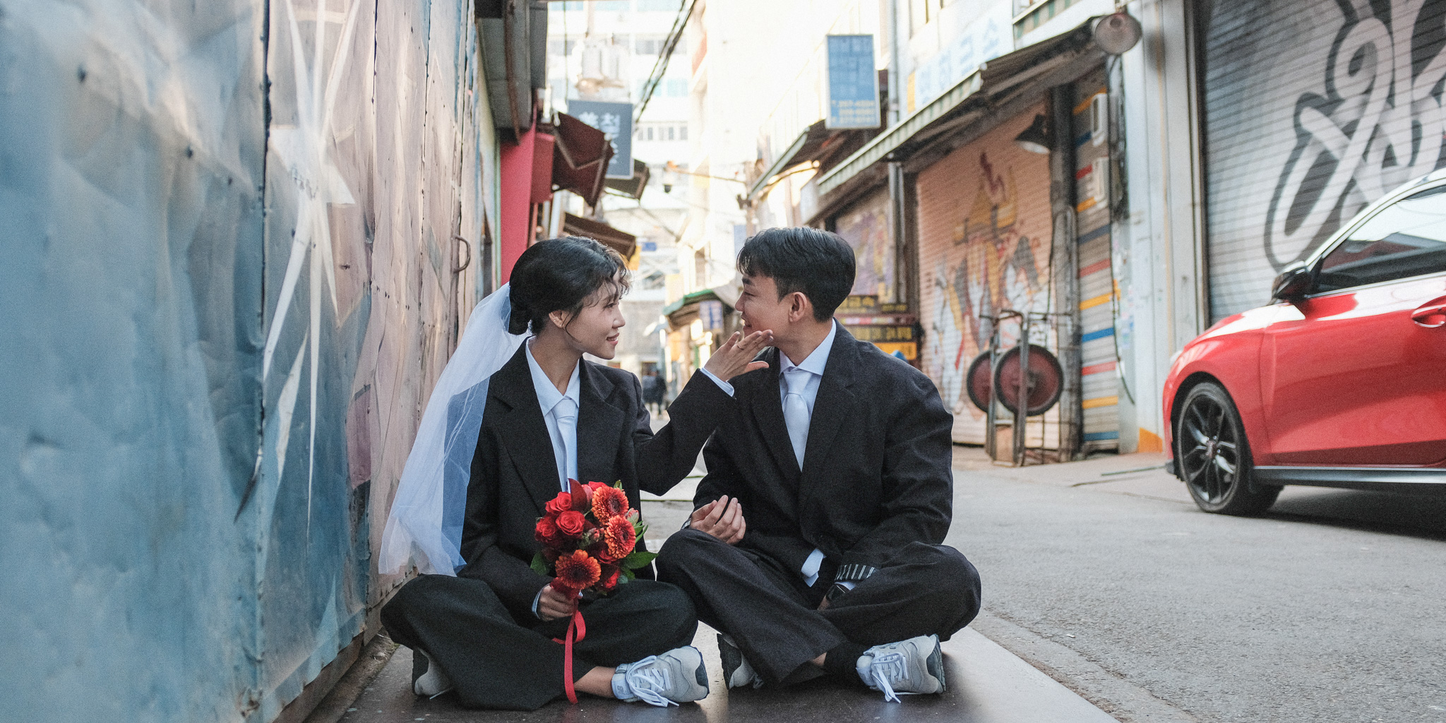
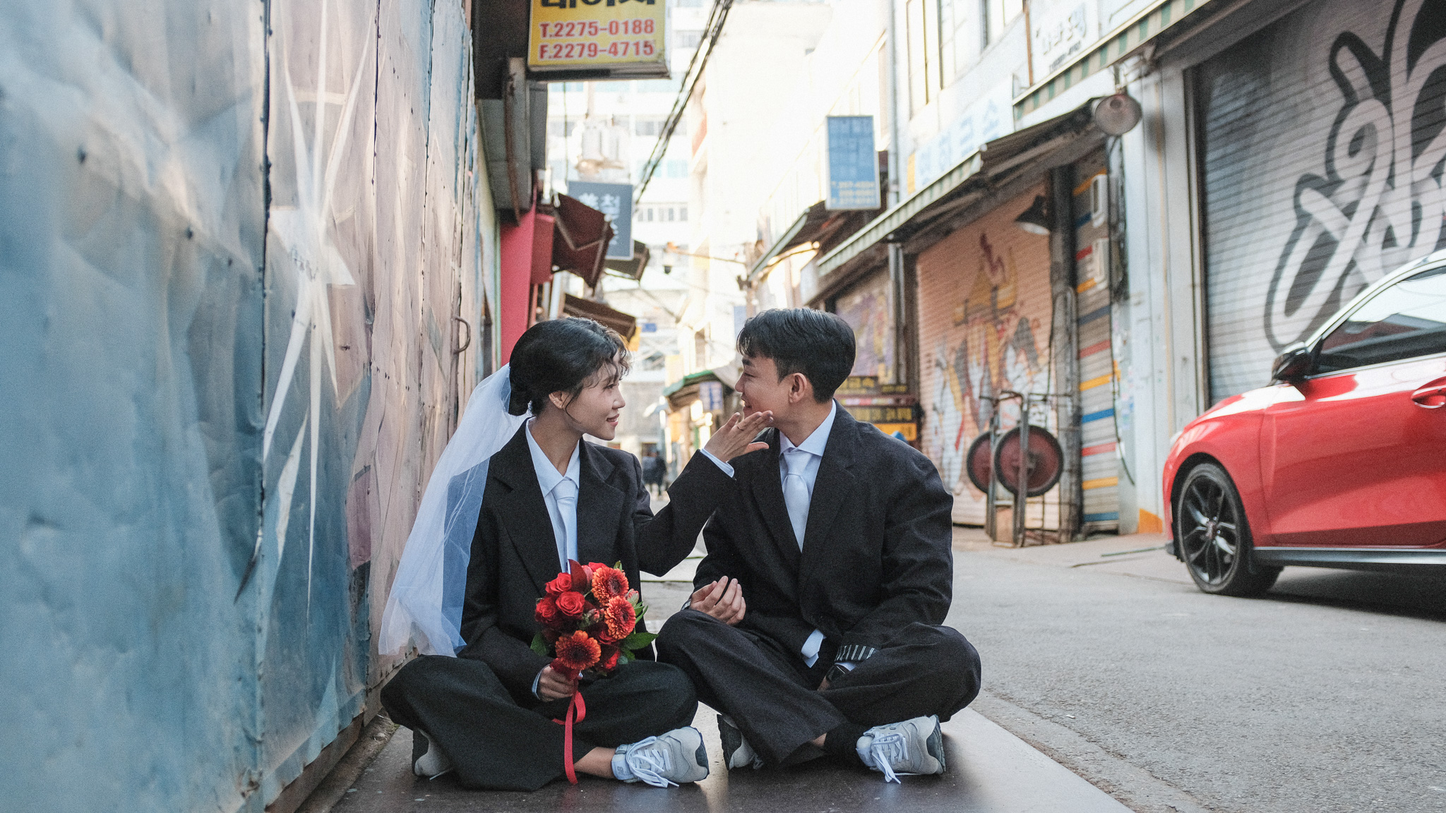
문구 변경 & 피로연 정보 & 사진 변경 & 계좌번호 업데이트

diff --git a/index.html b/index.html
@@ -32,16 +32,11 @@
             <div class="container d-flex align-items-center flex-column">
                 <!-- Masthead Subheading-->
                 <h2 class="page-section-heading text-center text-secondary mb-2 tangerine-font">Invitation</h2>
-                <p class="text-opacity-75 maru-font mb-2">풀들이 향기를 가득 머금은 계절,</p>
-                <p class="text-opacity-75 maru-font mb-2">사랑으로 하나 되어</p>
-                <p class="text-opacity-75 maru-font mb-2">한 길을 걸어가고자 합니다.</p>
-                <p class="text-opacity-75 maru-font py-2"></p>
-                <p class="text-opacity-75 maru-font mb-2">그 시작의 첫걸음에 함께 하시어</p>
-                <p class="text-opacity-75 maru-font mb-2">축복으로 가득 채워주십시오.</p>
-                <p class="text-opacity-75 maru-font py-2"></p>
-                <p class="text-opacity-75 maru-font mb-2">더 없는 기쁨으로</p>
-                <p class="text-opacity-75 maru-font mb-2">깊이 간직하며 살겠습니다.</p>
-                <p class="text-opacity-75 maru-font py-2"></p>
+                <p class="text-opacity-75 maru-font mb-2">곁에 있을 때 가장 나다운 모습이 되게 하는 사람</p>
+                <p class="text-opacity-75 maru-font mb-2">꿈을 펼칠 수 있도록 서로에게 날개가 되어줄 사람</p>
+                <p class="text-opacity-75 maru-font mb-2">그 사람과 삶의 여행을 함께 떠나려 합니다.</p>
+                <p class="text-opacity-75 maru-font mb-2">저희 여행의 출발점에 여러분을 초대하오니</p>
+                <p class="text-opacity-75 maru-font mb-5">오셔서 많이 축복해 주시면 큰 기쁨이겠습니다.</p>
                 <span class="divider-line mb-5"></span>
                 <p class="text-opacity-75 maru-font ps-4 mb-2">김기창, 이은하의 장남 김건호</p>
                 <p class="text-opacity-75 maru-font mb-2">(故)이철수, 김명숙의 장녀 이주경</p>
@@ -307,12 +302,19 @@
                 </script>
                     <!-- Masthead Subheading-->
                 <p class="text-opacity-50 font-0 text-bold text-black maru-font mb-5">지도를 터치(클릭)하시면 네이버 지도가 열립니다</p>
-                <p class="text-bold text-black maru-font mb-2">지하철</p>
+                <p class="text-bold text-black maru-font mb-2">&lt; 지하철 &gt;</p>
                 <p class="text-opacity-75 maru-font mb-5">금천구청역 1번출구에서 도보 12분</p>
-                <p class="text-bold text-black maru-font mb-2">자가용</p>
+                <p class="text-bold text-black maru-font mb-2">&lt; 자가용 &gt;</p>
                 <p class="text-opacity-75 maru-font mb-2">네비게이션에 "마벨리에 시흥점" 검색</p>
                 <p class="text-opacity-75 maru-font mb-5">(또는 홈플러스 시흥점)</p>
-                <p class="text-opacity-75 maru-font mb-2">식사 3시간, 주차 4시간 제공</p>
+                <p class="text-opacity-75 maru-font mb-5">식사 3시간, 주차 4시간 제공</p>
+                <span class="divider-line mb-5"></span>
+                <p class="text-bold text-black maru-font mb-2">&lt; 피로연 안내 &gt;</p>
+                <p class="text-opacity-50 maru-font mb-2">2024년 4월 13일 오후 1시</p>
+                <p class="text-opacity-50 maru-font mb-2" onclick="window.open('https://map.naver.com/p/entry/place/11582831?c=15.00,0,0,0,dh')">
+                    <a href="javascript:void(0);">설악웨딩타운</a>
+                </p>
+                <p class="text-opacity-50 maru-font mb-2">충남 당진시 남부로 122</p>
             </div>
         </section>
         <!-- Contact Section-->
@@ -328,7 +330,7 @@
                     </div>
                     <div class="info-content">
                         <div class="account-info">
-                            <span id="account-1">신한 123-456-7890</span>
+                            <span id="account-1">카카오뱅크 3333-01-4288030</span>
                             <i class="fas fa-copy copy-icon" data-account-id="account-1" title="복사하기" onclick="copy(this, event)"></i>
                         </div>
                     </div>
@@ -340,7 +342,7 @@
                     </div>
                     <div class="info-content">
                         <div class="account-info">
-                            <span id="account-2">신한 123-456-7891</span>
+                            <span id="account-2">카카오뱅크 3333-05-8779622</span>
                             <i class="fas fa-copy copy-icon" data-account-id="account-2" title="복사하기" onclick="copy(this, event)"></i>
                         </div>
                     </div>
@@ -352,7 +354,7 @@
                     </div>
                     <div class="info-content">
                         <div class="account-info">
-                            <span id="account-3">신한 123-456-7892</span>
+                            <span id="account-3">카카오뱅크 3333-28-1391429</span>
                             <i class="fas fa-copy copy-icon" data-account-id="account-3" title="복사하기" onclick="copy(this, event)"></i>
                         </div>
                     </div>
@@ -365,7 +367,7 @@
                     </div>
                     <div class="info-content">
                         <div class="account-info">
-                            <span id="account-4">신한 123-456-7893</span>
+                            <span id="account-4">카카오뱅크 3333-13-1358608</span>
                             <i class="fas fa-copy copy-icon" data-account-id="account-4" title="복사하기" onclick="copy(this, event)"></i>
                         </div>
                     </div>
@@ -377,7 +379,7 @@
                     </div>
                     <div class="info-content">
                         <div class="account-info">
-                            <span id="account-5">신한 123-456-7894</span>
+                            <span id="account-5">카카오뱅크 3333-15-2683769</span>
                             <i class="fas fa-copy copy-icon" data-account-id="account-5" title="복사하기" onclick="copy(this, event)"></i>
                         </div>
                     </div>
